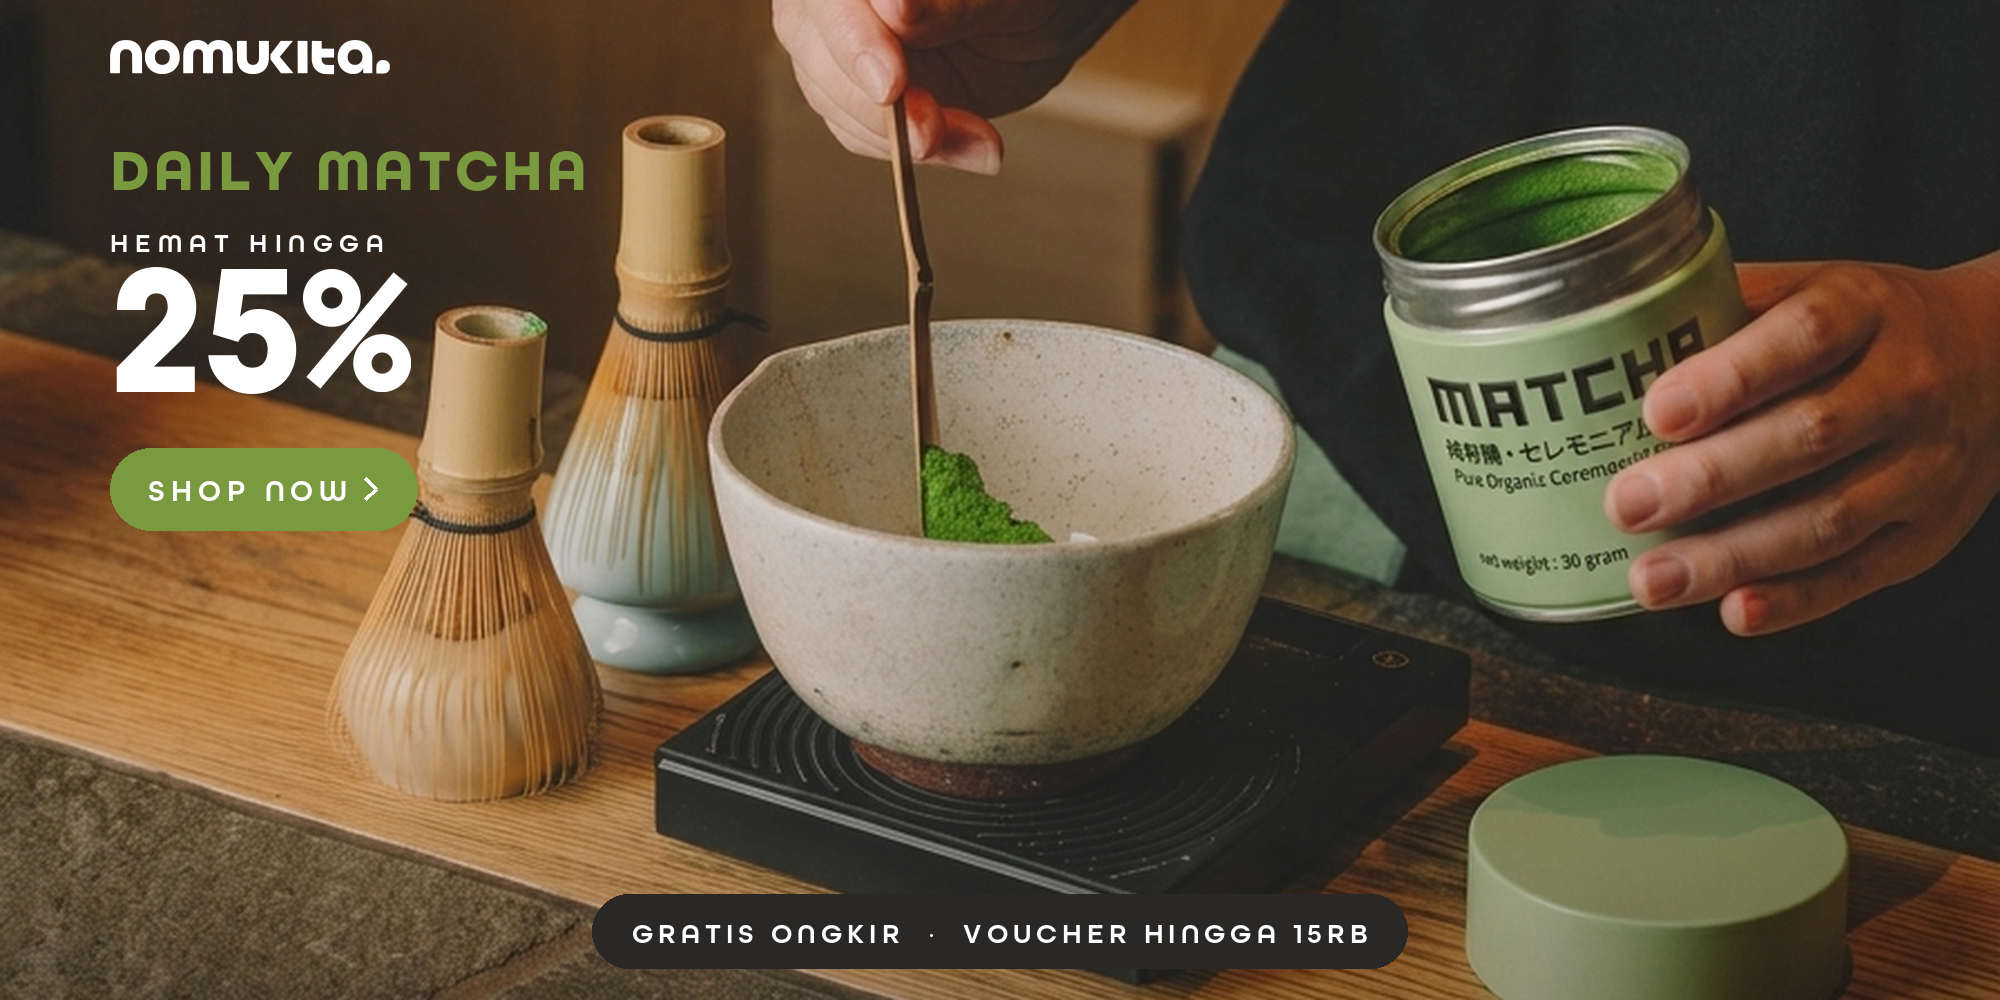
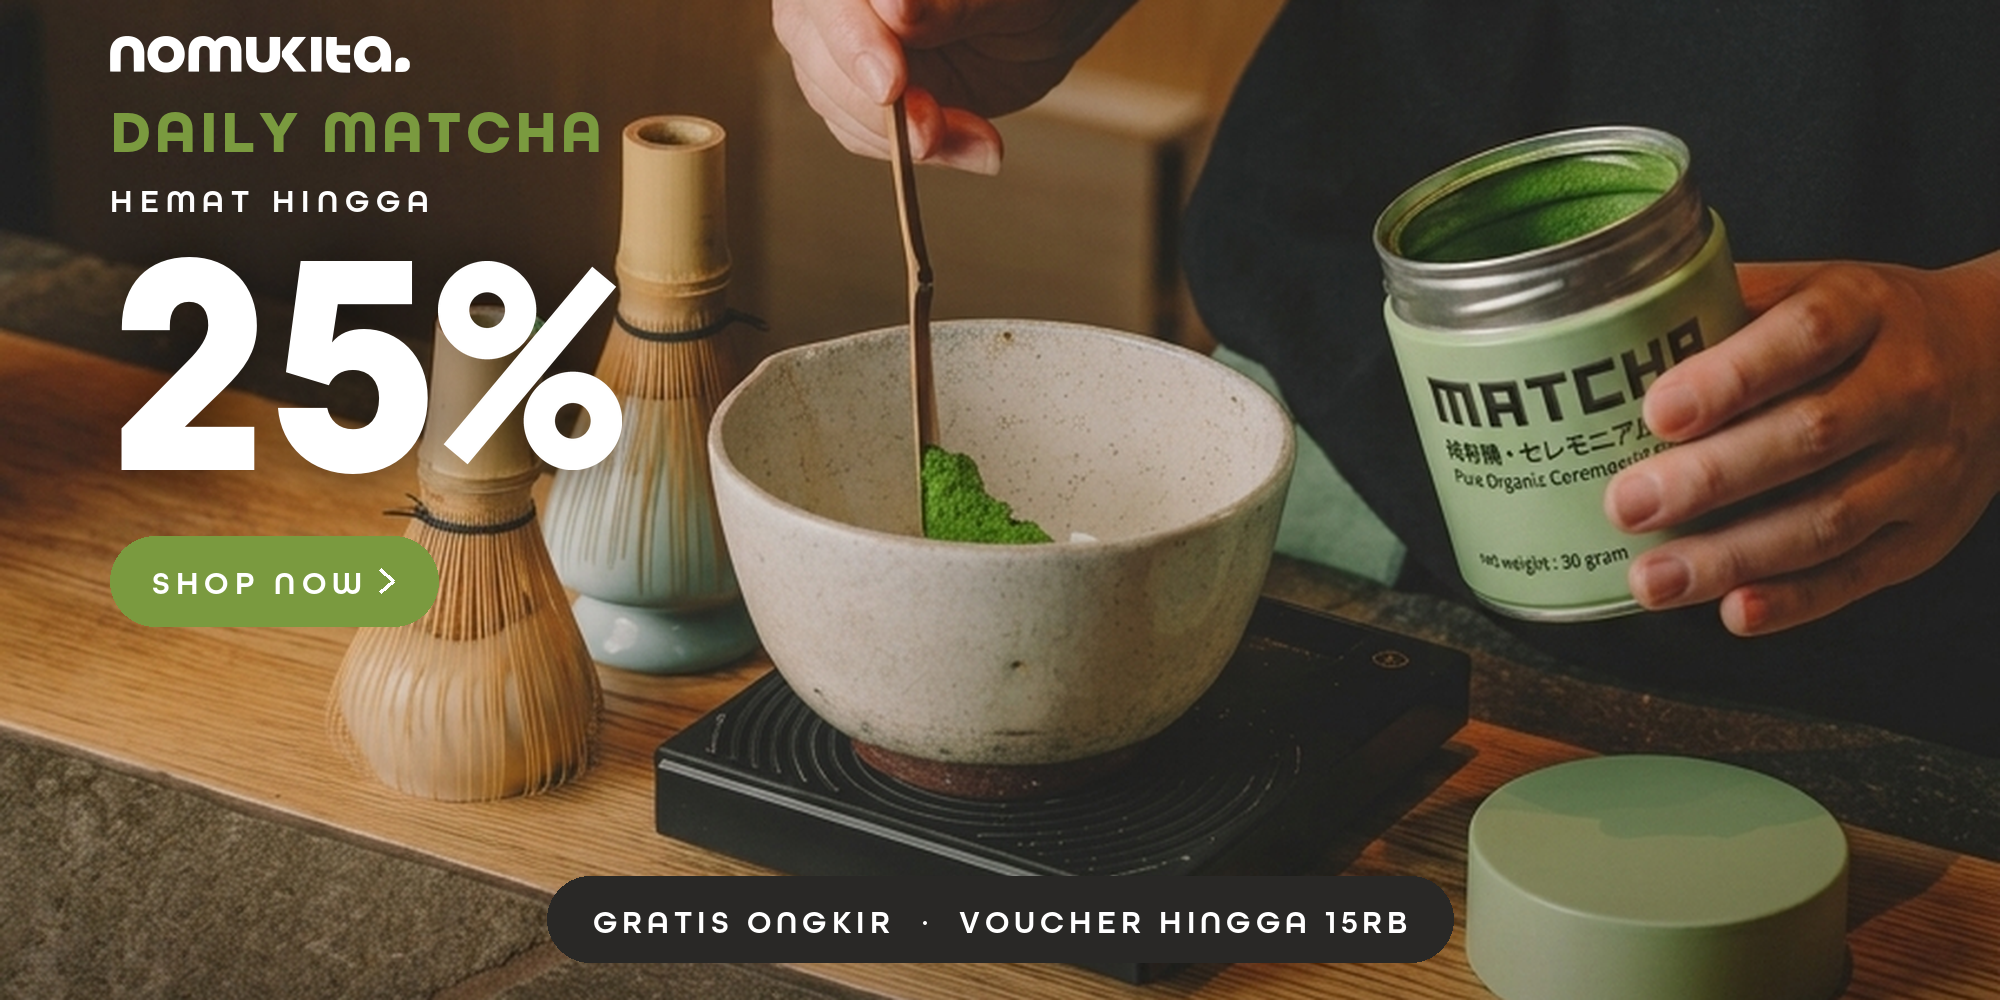
Take the discount number to 320 and rebuild the column around it
The 120-luminance limit that had capped the number at 188 was the wrong rule to
apply: it is calibrated for 24-30px body copy, and display type does not need
it. Measuring the actual box at 320 — x 110-622, y 261-470 — gives median 56
with the 90th percentile at 153, so the numeral is dark-backed nearly
everywhere and only its lower left crosses the counter's lit wood. A soft halo
struck from the glyph shapes themselves carries it over that crossing, which is
the same trade the client's own BAU reference makes with its white percentage
over the model's leg.

Everything else rescales to suit: logo 280 to 300, offer label 26 to 32, button
30 on a 90-tall pill, offers line 28 on an 86-tall pill. The column regroups
into brand, offer and action so the 70 percent larger numeral has the room —
headline and label ride above it in the darkest part of the field, both
verified at maximum 57 and 45.

Claude-Session: https://claude.ai/code/session_01LqXMhsXVUSTDGQKyLmseEg

Changed region(s): [[0.031, 0.031, 0.341, 0.651], [0.248, 0.868, 0.744, 0.992]]

diff --git a/banners/build.py b/banners/build.py
@@ -256,36 +256,47 @@ def discount():
     # budget read as clutter no matter how they are spaced. What remains is the
     # brand, the headline, and the offer group — label tight over its number,
     # the button after it — with the gaps opened to a steady rhythm.
-    N.logo(c, y=40, width=280, x=WIDE_M, colour='#FFFFFF')
-    # 58 is the headline's own ceiling: it runs 478 there and the dark ground
-    # ends at x 600, so one size up would put its tail on the lit shoji screen.
-    N.text(d, (WIDE_M, 190), 'DAILY MATCHA', 58, MATCHA, tracking=4)
-    N.text(d, (WIDE_M, 252), 'HEMAT HINGGA', 26, white, demi=True, tracking=7)
+    N.logo(c, y=36, width=300, x=WIDE_M, colour='#FFFFFF')
+    # 60 is the headline's ceiling: it runs 491 there against a dark field that
+    # ends at x 620, and 64 puts its tail on the lit shoji screen at 178.
+    N.text(d, (WIDE_M, 152), 'DAILY MATCHA', 60, MATCHA, tracking=4)
+    N.text(d, (WIDE_M, 212), 'HEMAT HINGGA', 32, white, demi=True, tracking=7)
 
-    # 188 is the ceiling the ground sets, not a taste choice: the number spans
-    # x 110-411 and y 263-392 at this size, where the shadow still peaks at 97;
-    # one step up to 198 reaches x 426 and the lit screen edge at 143.
-    size = 188
+    # 320, up from 188. The 120-luminance limit that held the number to 188 is
+    # calibrated for 24-30px body copy, and display type at this size does not
+    # need it — inside x 110-622, y 261-470 the ground reads median 56 with the
+    # 90th percentile at 153, so the numeral is dark-backed almost everywhere
+    # and only its lower left crosses the counter's lit wood. A soft dark halo,
+    # struck from the glyph shapes themselves, carries it across that crossing;
+    # this is the same trade the client's own BAU reference makes with its white
+    # percentage over the model's leg.
+    size = 320
     cap = N.arg(size).getbbox('H')[3] - N.arg(size).getbbox('H')[1]
-    x = WIDE_M + N.text(d, (WIDE_M, 392), '25', size, white)
-    N.percent(c, x, 392, cap, white)
+    num = Image.new('RGBA', c.size, (0, 0, 0, 0))
+    nd = ImageDraw.Draw(num)
+    x = WIDE_M + N.text(nd, (WIDE_M, 470), '25', size, white)
+    N.percent(num, x, 470, cap, white)
+    halo = Image.new('RGBA', c.size, (0, 0, 0, 0))
+    halo.paste((8, 7, 6, 255), (0, 0), num.split()[3].point(lambda v: round(v * 0.62)))
+    c.alpha_composite(halo.filter(ImageFilter.GaussianBlur(28)))
+    c.alpha_composite(num)
 
-    label, fs, tr = 'SHOP NOW', 30, 6
+    label, fs, tr = 'SHOP NOW', 32, 6
     lw = N.text_width(label, fs, demi=True, tracking=tr)
-    pw, ph = lw + 38 + 32 + 38, 82
-    d.rounded_rectangle([WIDE_M, 448, WIDE_M + pw, 448 + ph], radius=ph // 2,
+    pw, ph = lw + 42 + 34 + 42, 90
+    d.rounded_rectangle([WIDE_M, 536, WIDE_M + pw, 536 + ph], radius=ph // 2,
                         fill=MATCHA + (255,))
-    N.text(d, (WIDE_M + 38, 448 + 53), label, fs, white, demi=True, tracking=tr)
-    N.chevron(d, WIDE_M + 38 + lw + 18, 448 + ph / 2, 21, white, width=3)
+    N.text(d, (WIDE_M + 42, 536 + 58), label, fs, white, demi=True, tracking=tr)
+    N.chevron(d, WIDE_M + 42 + lw + 19, 536 + ph / 2, 23, white, width=3)
 
     # both smaller offers on one charcoal pill at the bottom centre
     offer = 'GRATIS ONGKIR  ·  VOUCHER HINGGA 15RB'
-    ow = N.text_width(offer, 28, demi=True, tracking=5)
-    opw, oph = ow + 2 * 40, 74
+    ow = N.text_width(offer, 32, demi=True, tracking=5)
+    opw, oph = ow + 2 * 46, 86
     ox = round(1000 - opw / 2)
-    d.rounded_rectangle([ox, 894, ox + opw, 894 + oph], radius=oph // 2,
+    d.rounded_rectangle([ox, 876, ox + opw, 876 + oph], radius=oph // 2,
                         fill=(24, 23, 21, 235))
-    N.text(d, (ox + 40, 894 + 49), offer, 28, white, demi=True, tracking=5)
+    N.text(d, (ox + 46, 876 + 57), offer, 32, white, demi=True, tracking=5)
 
     return N.finish(c, OUT / '7-diskon.png')
 
